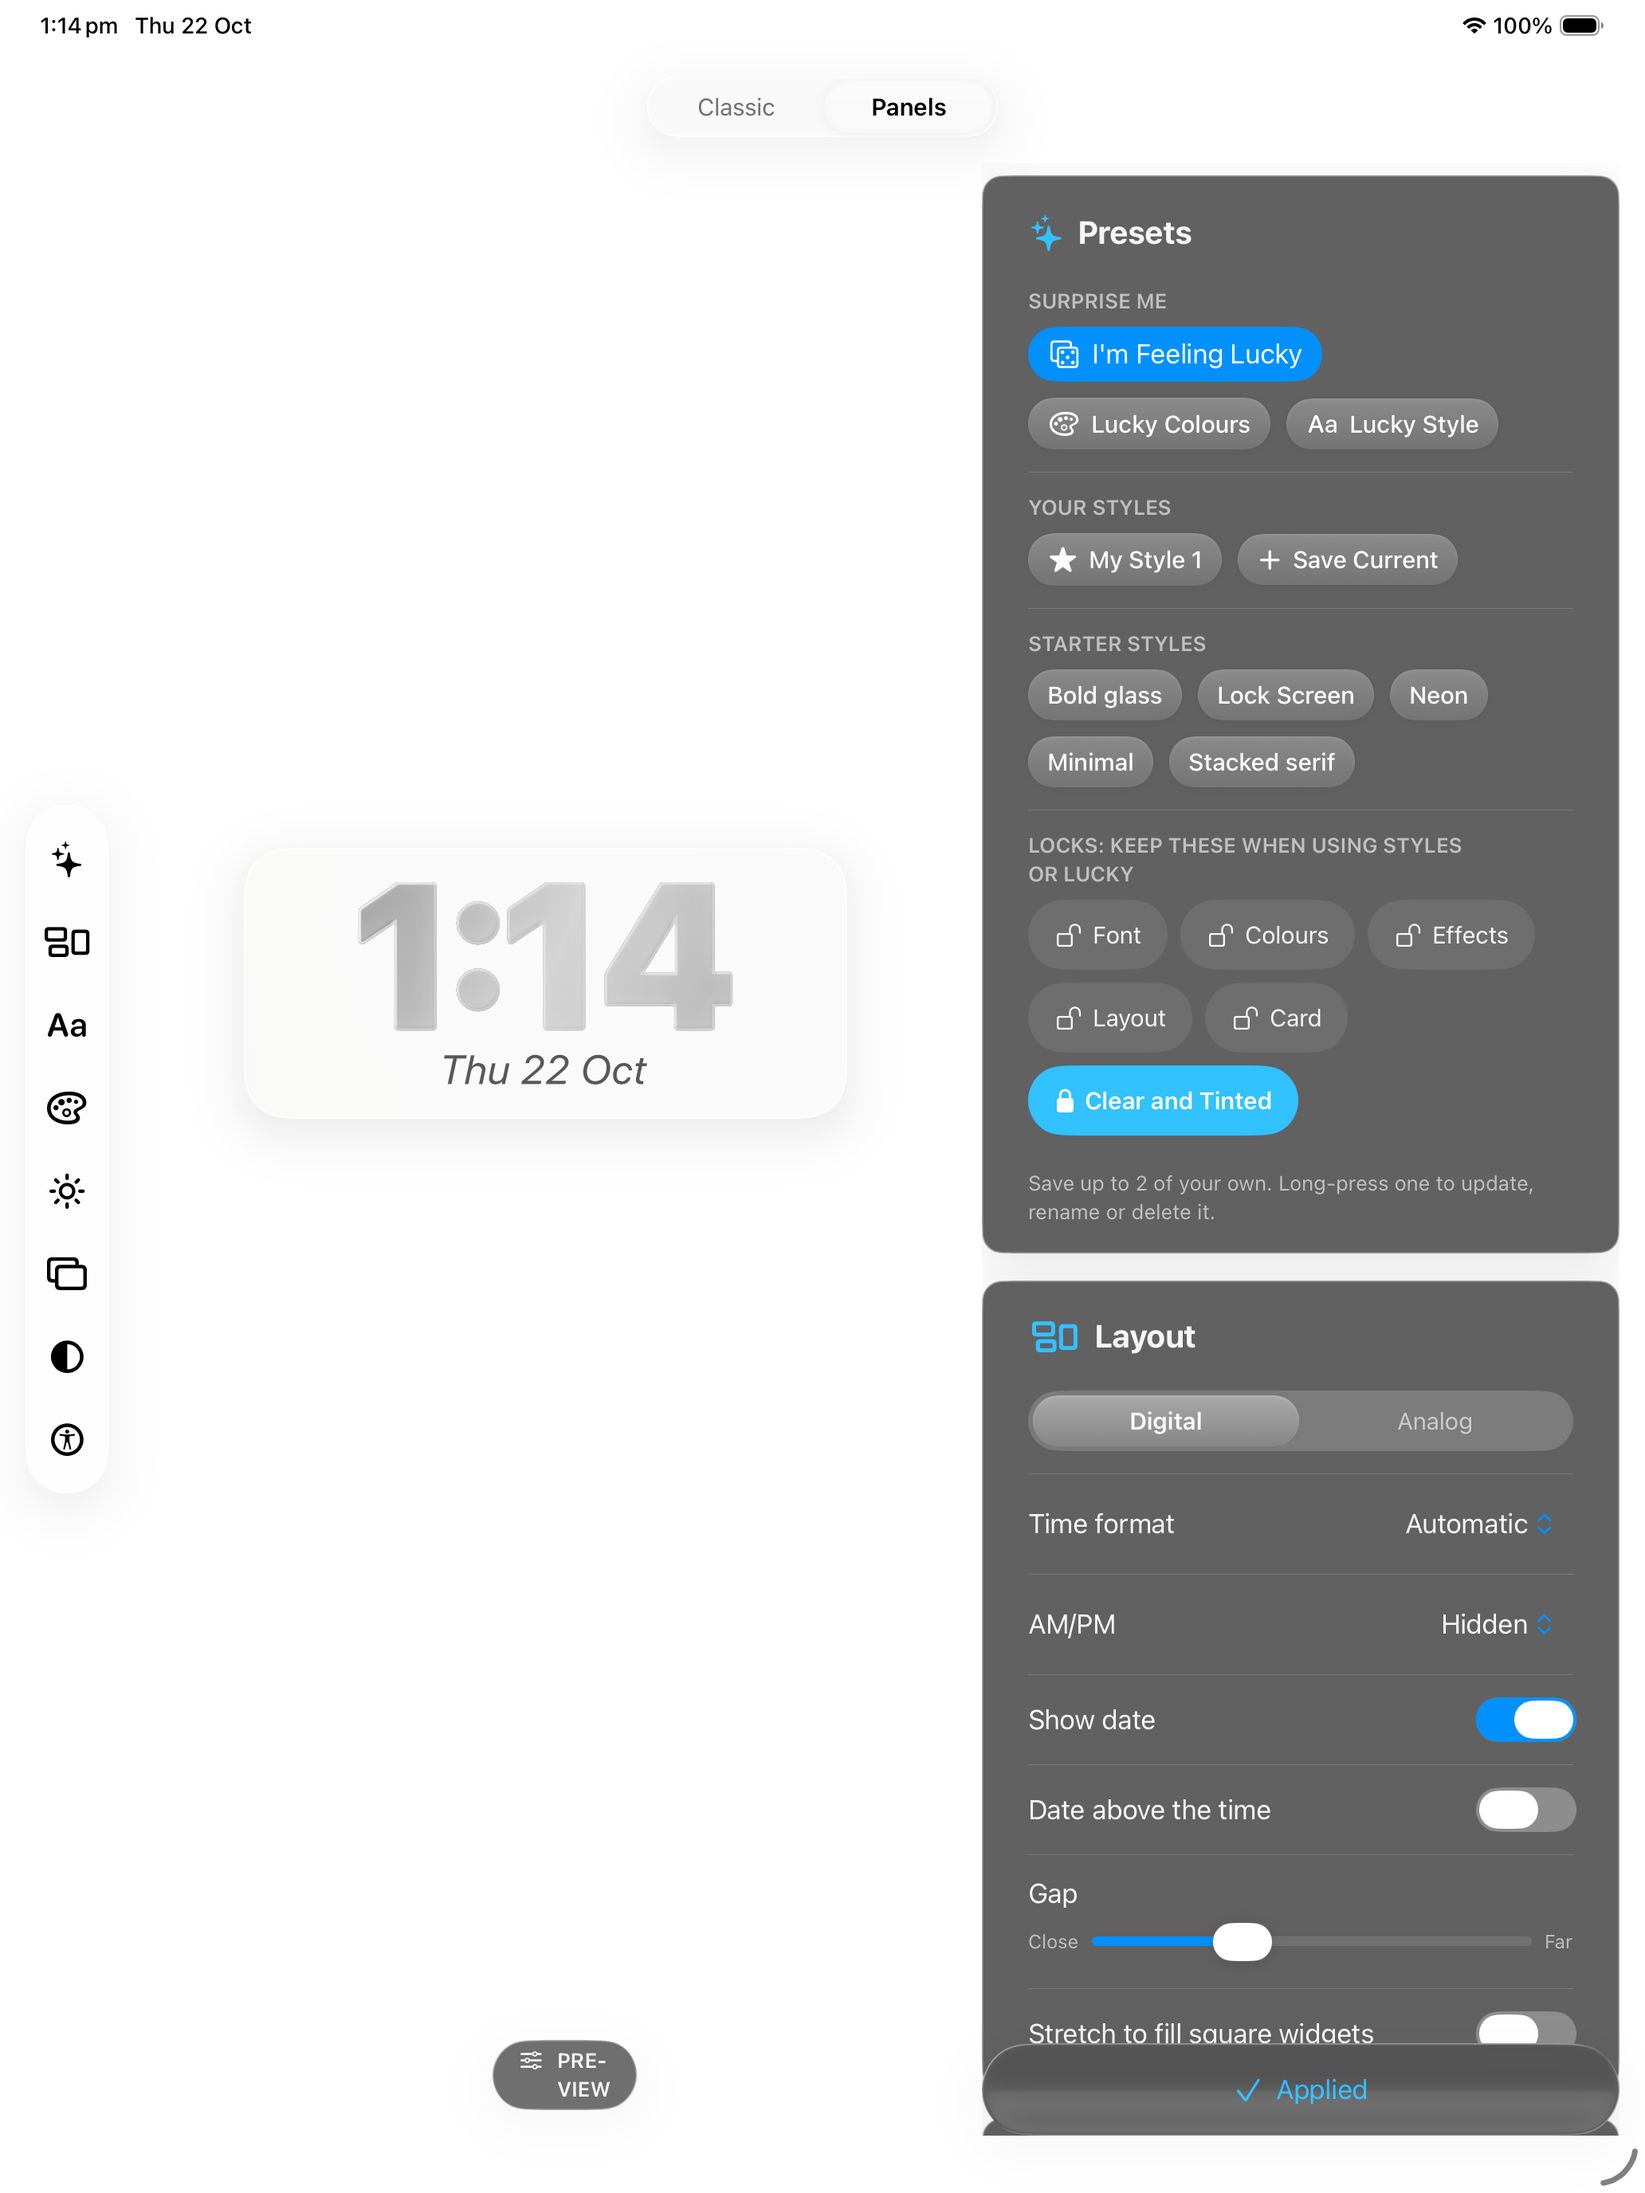
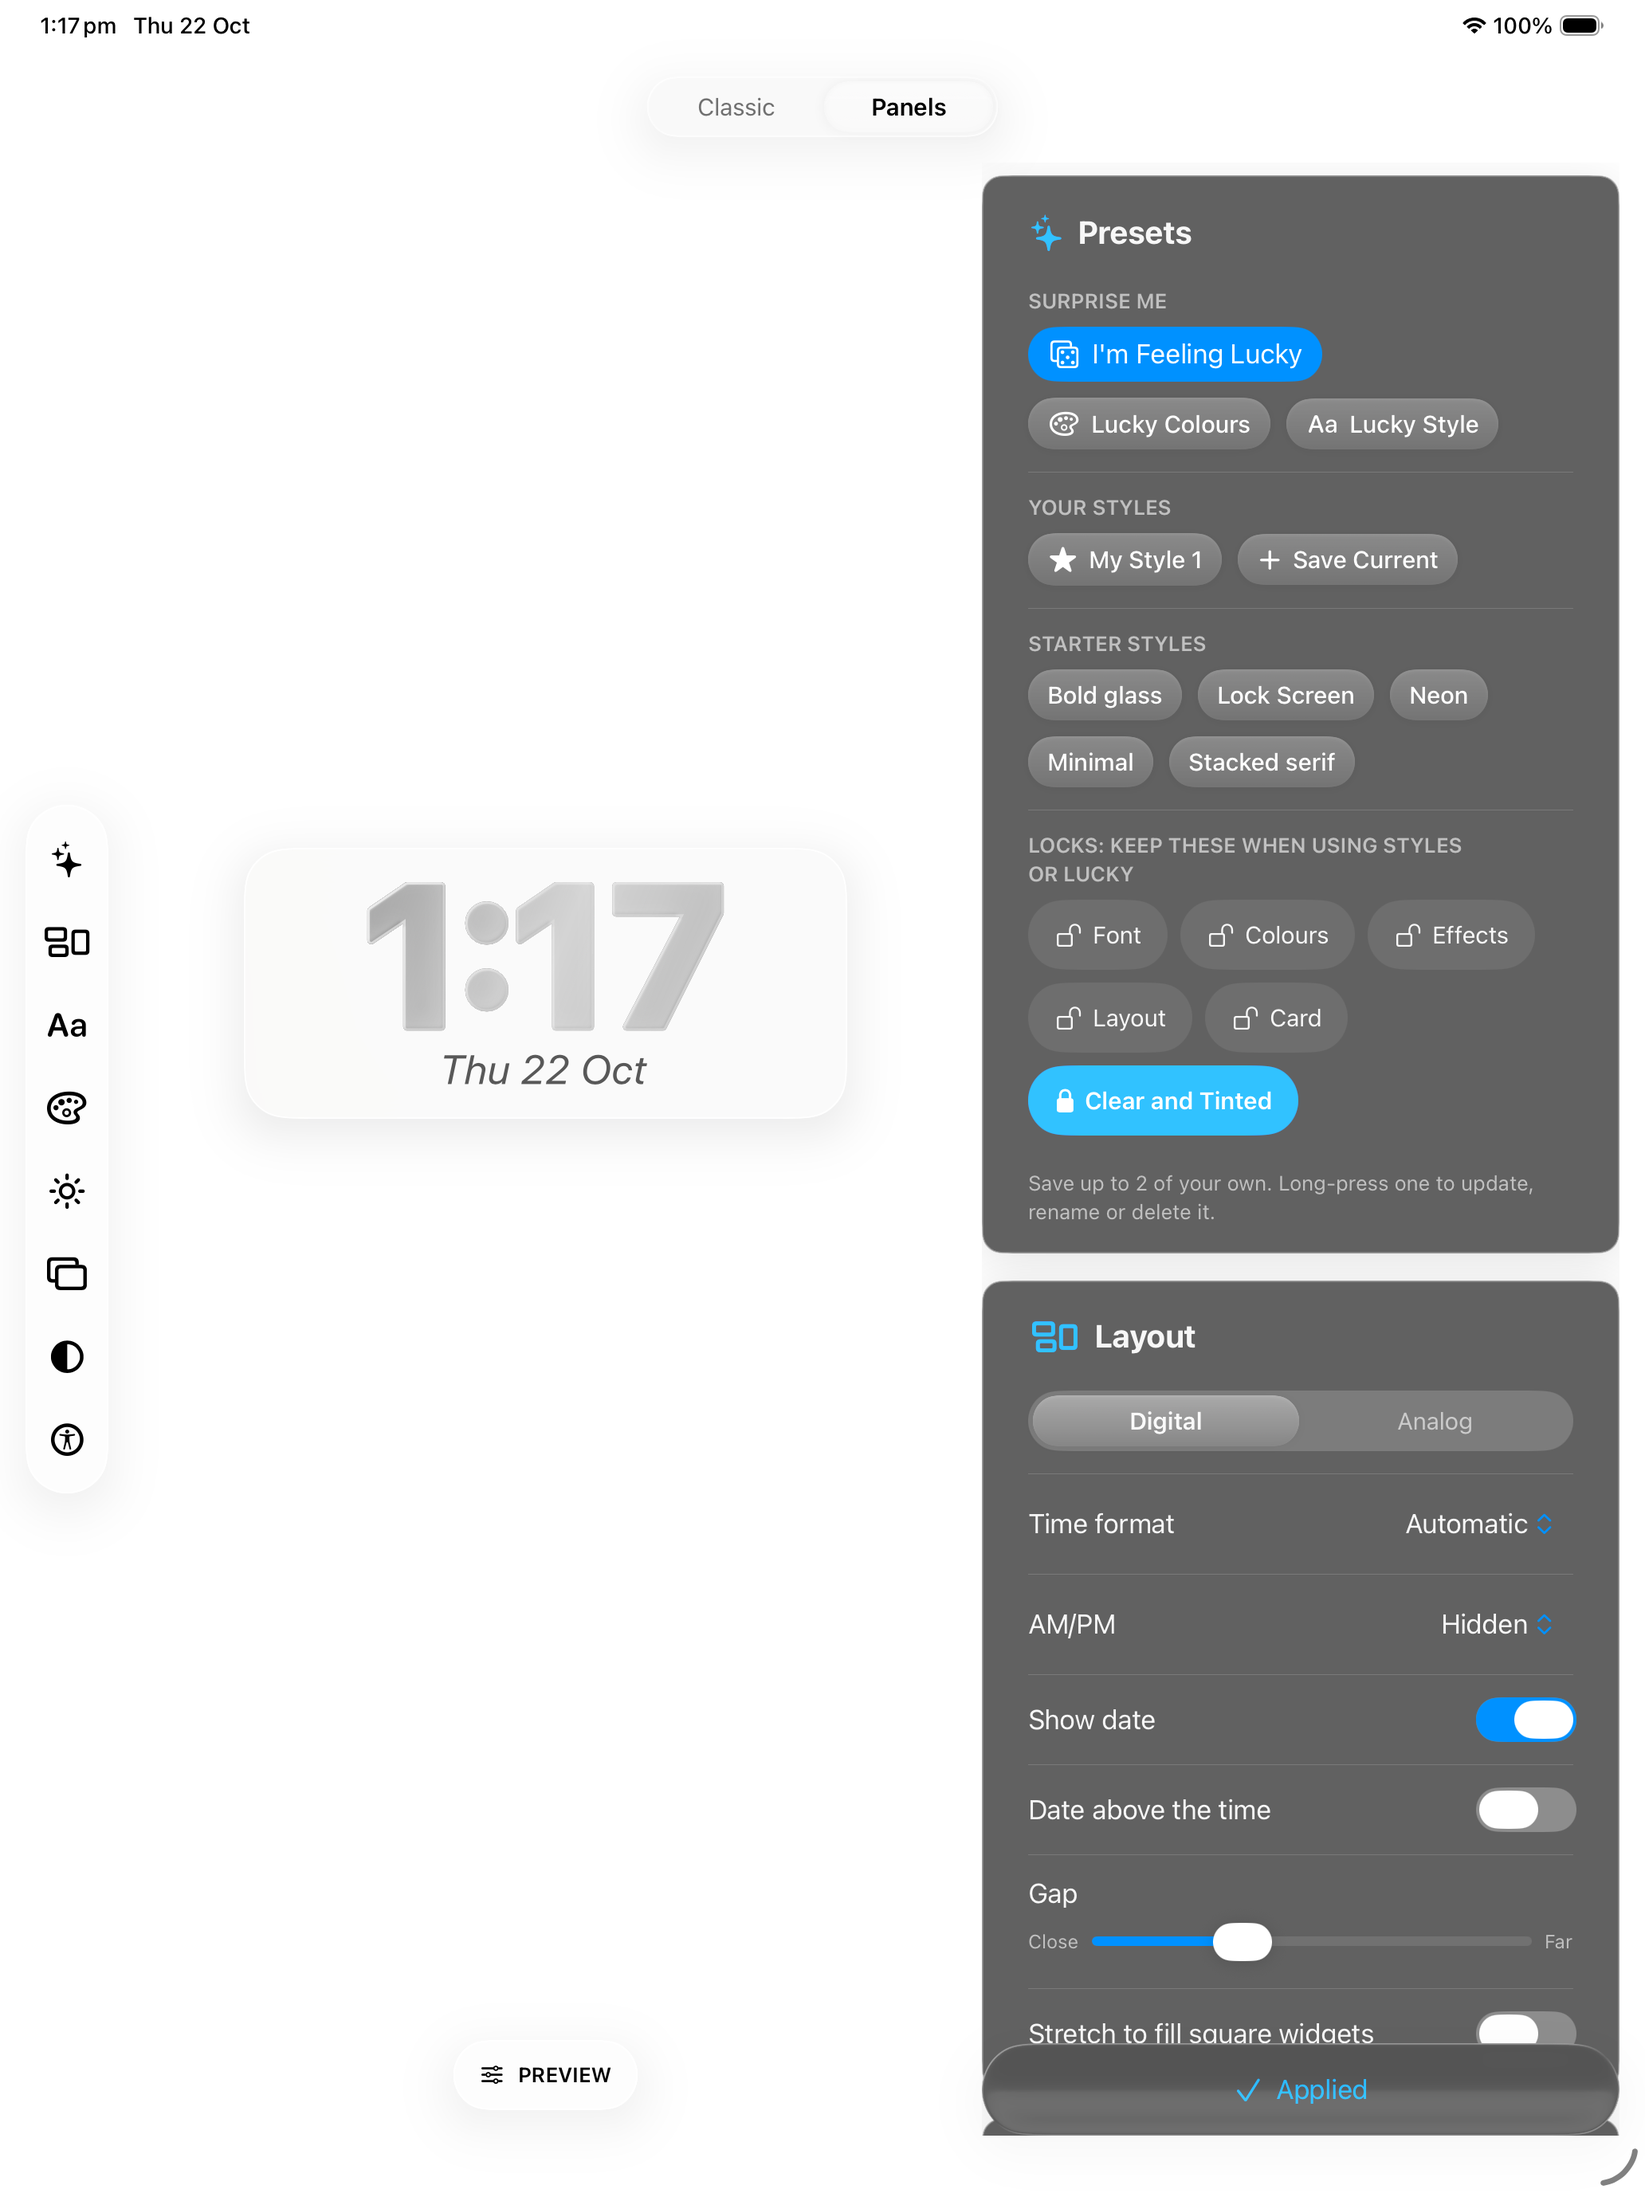
Rebuild step 6, first version: Home Screen look, size and backdrop in one glass card under the widget; tucks into a Preview tag after 5 s; swipe the backdrop to change it

Changed region(s): [[0.2171, 0.375, 0.4651, 0.4688], [0.2791, 0.9062, 0.4031, 0.9688]]

diff --git a/GlassClock/Rebuild/WidgetControls.swift b/GlassClock/Rebuild/WidgetControls.swift
@@ -19,7 +19,6 @@ struct WidgetControls: View {
     /// Out on launch, so they're found, then tucked away after the first wait.
     @State private var shown = true
     @State private var tuck: Task<Void, Never>?
-    @Namespace private var lift
 
     /// Your photo and Make your own need pickers of their own, so they wait for a later step.
     static let backdrops = PreviewBackdrop.allCases.filter { $0 != .photo && $0 != .custom }
@@ -53,7 +52,6 @@ struct WidgetControls: View {
         }
         .buttonStyle(.plain)
         .glassEffect(.regular.interactive(), in: .capsule)
-        .matchedGeometryEffect(id: "controls", in: lift)
         .accessibilityLabel("Preview controls")
         .accessibilityHint("Shows the Home Screen look, widget size and backdrop")
         .transition(.opacity)
@@ -82,7 +80,6 @@ struct WidgetControls: View {
         }
         .modifier(ClearGlass(on: glassy, shape: shape))
         .shadow(color: .black.opacity(0.12), radius: 16, y: 6)
-        .matchedGeometryEffect(id: "controls", in: lift)
         // Touching them at all keeps them out a while longer.
         .simultaneousGesture(TapGesture().onEnded { restartTuck() })
         .accessibilityElement(children: .contain)

diff --git a/PLAN.md b/PLAN.md
@@ -5,7 +5,15 @@ Ticks show what's done. Scheduled runs work top to bottom and tick things off he
 
 ## The rebuild (decided 22 Oct) — start here
 
-## Latest run (22 Oct, midday)
+## Latest run (22 Oct, 1:20 p.m.)
+- Done: step 6 (widget controls) is written. Under the widget there's now one glass card for the Home Screen look, the widget size and the backdrop. It tucks into a "Preview" tag after 5 seconds; tap the tag to get it back. Swipe across the empty backdrop to change it. Not ticked until it's tried on the iPad.
+- Your own unsaved changes in ContentView.swift (iPhone opens in Classic) were being edited during this run, so I left them alone and didn't commit them.
+- Try on the iPad (`Scripts/run-on-ipad.sh --rebuild`):
+  1. Wait 5 seconds: the controls should shrink into the "Preview" tag. Tap it: they should come back. Does 5 seconds feel right?
+  2. Tap Dark, then Large, then a few backdrop circles: the widget and backdrop should change at once, and the controls should stay out while you use them.
+  3. Swipe sideways across empty backdrop (not the widget): it should step to the next backdrop and show its name at the top.
+
+## Earlier run (22 Oct, midday)
 - Done: step 5 (Panels) is written. Switch to Panels: the groups are a glass pill of icons on one side and the settings a column of cards on the other. Hold a card's title (or the pill) briefly to pick it up and carry it; flick it to its edge to put it aside; double-tap the widget area to clear both away. Not ticked until it's tried on the iPad.
 - Not installed on the iPad: it was paired but not connected again ("No connected iPad found"). Plug it in and run the command below.
 - Try on the iPad (`Scripts/run-on-ipad.sh --rebuild`, then tap Panels):
@@ -102,6 +110,7 @@ Classic is free, and Pro (about £2, paid once) unlocks the full studio. Every P
 5. [ ] **Panels.** Settings and groups panels on either side: hold to move, flick aside, edge tab to bring back, double-tap to clear.
    *Written 22 Oct (scheduled run), not yet tried on the iPad: `GlassClock/Rebuild/Panels.swift` and `PanelLift.swift`. In Panels on a wide screen, the groups are a glass pill of icons (tap one, or run a finger along them, to scroll the settings to that group) and the settings are a column of cards. Hold a card's title, or anywhere on the pill, for about a fifth of a second: it lifts with a tap of feedback and follows your finger. Let go across the middle and it moves to that side; flick it towards its edge and it goes aside, leaving a tab you tap (or pull) to bring it back. Double-tap the stage to clear both panels, and again to bring them back. Nothing is measured while a panel moves, and only the moving panel redraws. VoiceOver has actions for all of it. Checked in the Simulator for layout (Screenshots/oct22/rebuild-panels.png); the gestures weren't (the Simulator can't be driven on an unattended run).*
 6. [ ] **Widget controls.** Home Screen style, size and backdrop around the widget.
+   *Written 22 Oct (scheduled run), not yet tried on the iPad: `GlassClock/Rebuild/WidgetControls.swift`. One glass card at the foot of the stage with the Home Screen look (Light, Dark, Clear, Tinted), the widget size and a row of backdrop swatches. It tucks into a small "Preview" tag after 5 s untouched (tap the tag to bring it back; it stays out with VoiceOver). Swipe sideways across the empty backdrop to step through backdrops; the name shows for a moment at the top. Your photo and Make your own aren't in the row yet. Checked in the Simulator in Light and Dark, out and tucked (Screenshots/oct22/rebuild-controls-*.png); taps and swipes weren't (unattended run).*
 7. [ ] **Polish pass.** Glass, focus and animation, one at a time, checked on the iPad. Fewer window touches, more glass.
 7b. [ ] **Guided tour.** A short tour of the gestures: drag, pinch, hold to resize, flick a panel aside.
 8. [ ] **Swap.** When the new app beats the old one on the iPad, it becomes main. The old one stays on a branch as a record.
